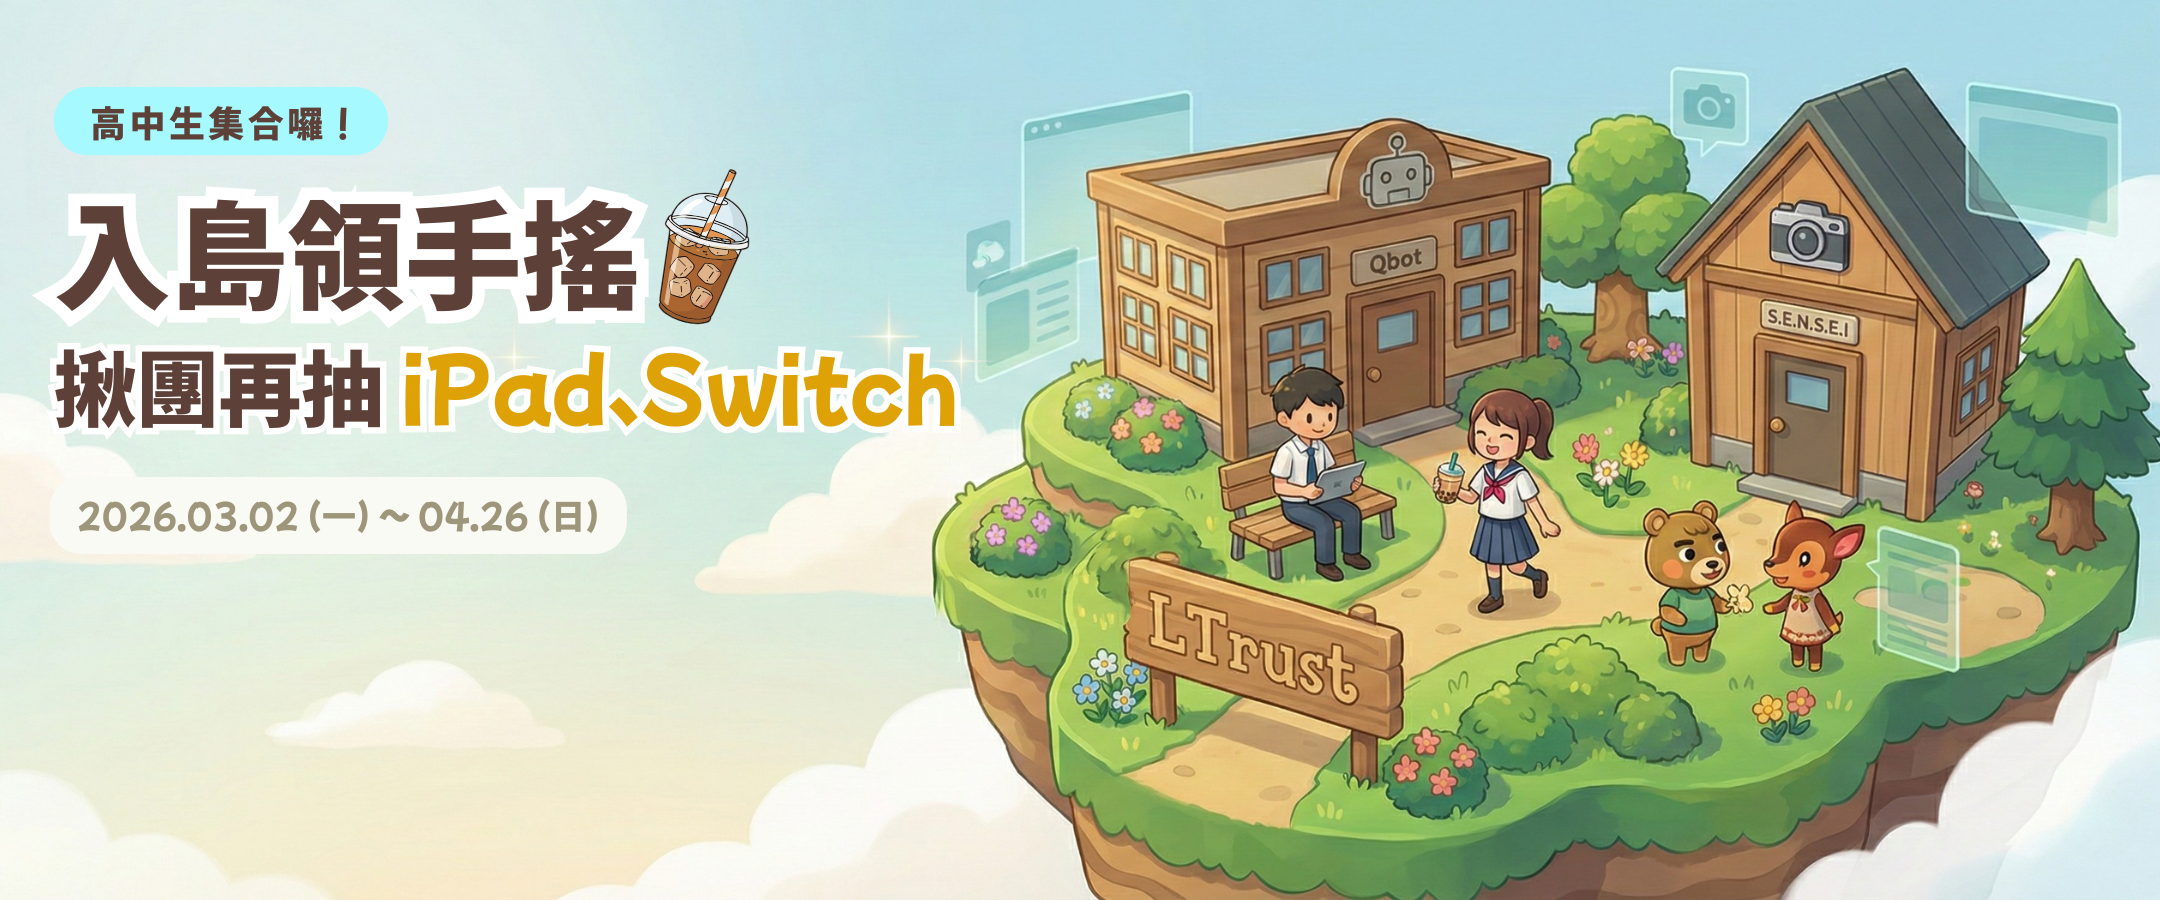
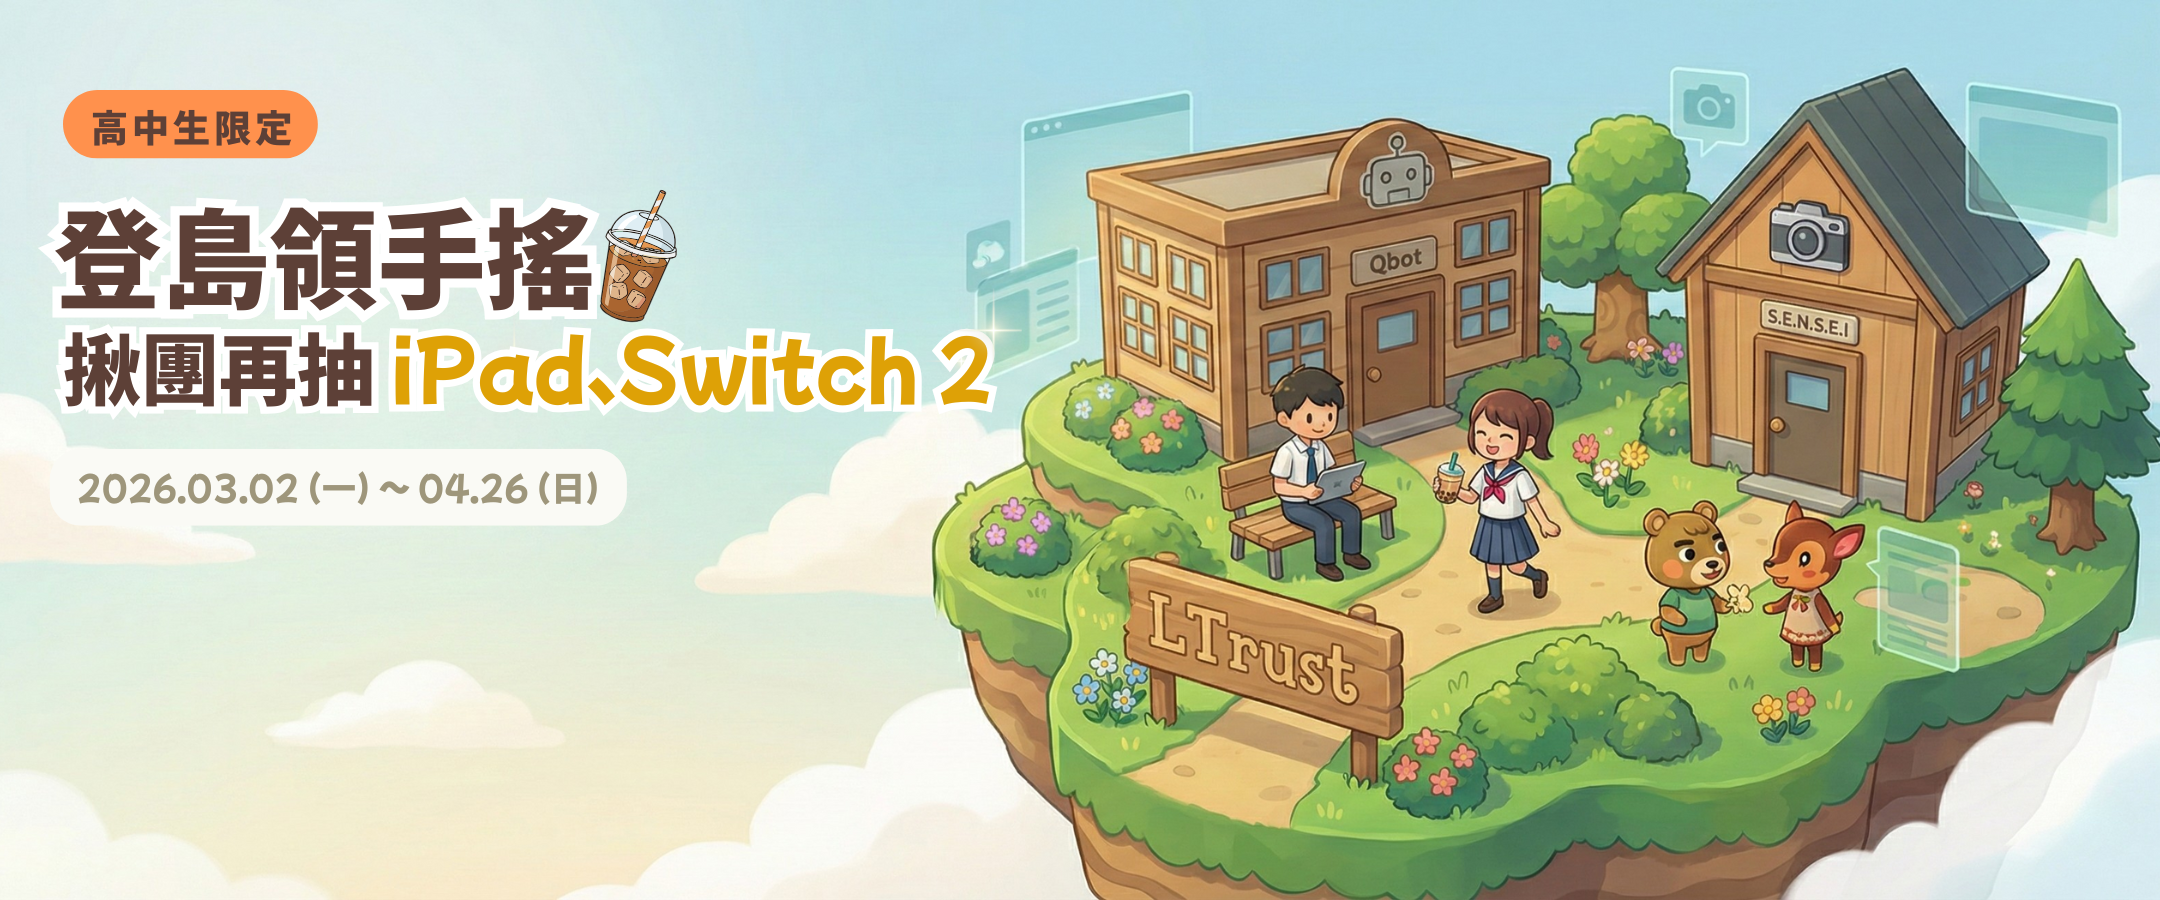
Add files via upload

Changed region(s): [[0.0, 0.0933, 0.4653, 0.6222]]

diff --git a/index.html b/index.html
@@ -3,7 +3,7 @@
 <head>
   <meta charset="UTF-8" />
   <meta name="viewport" content="width=device-width, initial-scale=1.0" />
-  <title>高中限定｜開學小島物資站🧋</title>
+  <title>高中限定｜LTrust入島領手搖🧋揪團抽大獎！</title>
 
   <!-- Tailwind CSS -->
   <script src="https://cdn.tailwindcss.com"></script>
@@ -273,7 +273,7 @@
       hostBonusMax: { people: 30, original: "NT$ 3,500", money: "NT$ 4,000" },
       hostGuideSteps: [
         { id: 1, title: "取得島民（會員）資格", text: " 無論是新舊島民，只要是 LTrust 島民，都有資格成為「團長」，開啟你的揪團計畫！" },
-        { id: 2, title: "前往服務中心領推薦碼", text: "立志成為團長後，請前往 LTrust 本島的「熱門服務區」，領取專屬的 「入島推薦碼」", showImage: true },
+        { id: 2, title: "前往服務中心領推薦碼", text: "立志成為團長後，請前往 LTrust 本島的「熱門服務區」，領取專屬的 「登島推薦碼」", showImage: true },
         { id: 3, title: "發送推薦碼", text: "將邀請碼發給同學，對方輸入並成功註冊，系統將自動把他納入你的團隊！", sub: "● 一個推薦碼限一人使用！若你要揪第 2 位同學，請再次回到熱門服務區，領取一組新的邀請碼。揪 10 人就要領 10 次碼，勤勞的團長有糖吃！", showImage: true },
       ],
       prizePools: [
@@ -322,7 +322,7 @@
 
       tickerNews: [
         "🌸 恭喜「建國中學」陳O明 同學揪團成功，全團獲得抽獎資格！",
-        "🧋 累積入島人數已突破 800 位！剩餘手搖飲額度倒數中...",
+        "🧋 累積登島人數已突破 800 位！剩餘手搖飲額度倒數中...",
         "🎁 5/6 島內佈告欄貼榜，記得回來查看中獎資訊喔！",
         "✈ Nook 旅行券領取步驟：註冊後加入 LINE@ 留言即可獲得。"
       ],
@@ -406,22 +406,56 @@
       );
     };
 
+    // ✅ 重繪圖標：CoCo 奶茶三兄弟 (料堆在上面的澎湃版 + 吸管)
     const CuteBobaIcon = () => (
       <svg viewBox="0 0 100 120" className="w-20 h-20 md:w-28 md:h-28 drop-shadow-xl">
-        <path d="M25 25 L75 25 L68 110 Q65 115 60 115 L40 115 Q35 115 32 110 Z" fill="#ffffff" stroke="#006c64" strokeWidth="3" />
-        <path d="M28 40 L72 40 L68 110 Q65 115 60 115 L40 115 Q35 115 32 110 Z" fill="#f0c9a0" />
-        <rect x="20" y="20" width="60" height="12" rx="6" fill="#ffffff" stroke="#006c64" strokeWidth="3" />
-        <rect x="58" y="5" width="8" height="40" rx="4" fill="#a29bfe" stroke="#006c64" strokeWidth="2.5" />
-        <circle cx="40" cy="100" r="4.5" fill="#594d40" />
-        <circle cx="52" cy="104" r="4.5" fill="#594d40" />
-        <circle cx="62" cy="95" r="4.5" fill="#594d40" />
-        <circle cx="45" cy="85" r="4.5" fill="#594d40" />
-        <circle cx="56" cy="88" r="4.5" fill="#594d40" />
-        <circle cx="40" cy="65" r="2" fill="#594d40" />
-        <circle cx="60" cy="65" r="2" fill="#594d40" />
-        <path d="M45 72 Q50 78 55 72" fill="none" stroke="#594d40" strokeWidth="2" strokeLinecap="round" />
-        <circle cx="35" cy="70" r="4" fill="#ff9999" opacity="0.4" />
-        <circle cx="65" cy="70" r="4" fill="#ff9999" opacity="0.4" />
+        {/* 新增：吸管 (插在後方，被配料遮擋，呈現自然插入感) */}
+        {/* 我們將吸管畫在最底層，這樣它就會位於杯身和配料的「後面」 */}
+        <line x1="85" y1="-10" x2="65" y2="60" stroke="#a29bfe" strokeWidth="8" strokeLinecap="round" />
+        {/* 吸管陰影/細節 */}
+        <line x1="85" y1="-10" x2="65" y2="60" stroke="rgba(0,0,0,0.1)" strokeWidth="1" />
+
+        {/* 1. 配料層 (堆高高在杯口上方) */}
+        <g>
+            {/* 布丁：左上大塊黃色，滑嫩感 */}
+            <path d="M25 35 Q30 15 50 25 L55 35 Z" fill="#f9ca24" />
+            <path d="M30 25 Q40 18 48 28" fill="none" stroke="#ffeaa7" strokeWidth="2" opacity="0.8" />
+
+            {/* 仙草：右上大塊黑色，Q彈感 */}
+            <path d="M50 35 Q70 15 75 35 Z" fill="#2d3436" />
+            <path d="M55 30 Q65 20 70 32" fill="none" stroke="#636e72" strokeWidth="2" opacity="0.5" />
+
+            {/* 珍珠：堆疊在中間與縫隙，營造豐富感 */}
+            <circle cx="40" cy="28" r="5" fill="#2d3436" />
+            <circle cx="50" cy="22" r="5" fill="#2d3436" />
+            <circle cx="60" cy="28" r="5" fill="#2d3436" />
+            <circle cx="45" cy="18" r="5" fill="#2d3436" />
+            <circle cx="55" cy="18" r="5" fill="#2d3436" />
+            
+            {/* 珍珠光澤 (Highlihgt) */}
+            <circle cx="48" cy="20" r="1.5" fill="white" opacity="0.4" />
+            <circle cx="53" cy="16" r="1.5" fill="white" opacity="0.4" />
+        </g>
+
+        {/* 2. 杯身 (奶茶色 + 白色杯緣) */}
+        <path d="M20 35 L80 35 L72 110 Q68 115 60 115 L40 115 Q32 115 28 110 Z" fill="#dcb690" stroke="#fff" strokeWidth="2.5" />
+        
+        {/* 3. 杯底微微透出的沉澱配料 (增加真實感) */}
+        <circle cx="35" cy="95" r="4" fill="#2d3436" opacity="0.1" />
+        <circle cx="65" cy="100" r="4" fill="#2d3436" opacity="0.1" />
+        <path d="M30 85 Q40 95 50 85" stroke="#2d3436" strokeWidth="3" opacity="0.05" fill="none" />
+
+        {/* 4. 療癒微笑表情 (維持在杯身中間) */}
+        <g transform="translate(0, 5)">
+            <circle cx="38" cy="65" r="3.5" fill="#594d40" />
+            <circle cx="62" cy="65" r="3.5" fill="#594d40" />
+            <path d="M45 72 Q50 78 55 72" fill="none" stroke="#594d40" strokeWidth="2.5" strokeLinecap="round" />
+            <circle cx="32" cy="70" r="3" fill="#ff9999" opacity="0.5" />
+            <circle cx="68" cy="70" r="3" fill="#ff9999" opacity="0.5" />
+        </g>
+
+        {/* 5. 杯身反光質感 */}
+        <path d="M28 45 L32 105" fill="none" stroke="white" strokeWidth="3" strokeLinecap="round" opacity="0.3" />
       </svg>
     );
 
@@ -436,7 +470,8 @@
                </div>
             </div>
             <h3 className="text-3xl md:text-4xl font-black tracking-tight mb-2 text-[#006c64] drop-shadow-sm">LTrust 歡迎你</h3>
-            <p className="text-xl font-bold text-orange-700">人氣手搖品牌 電子飲品券</p>
+            {/* ✅ 更新文案：CoCo都可奶茶三兄弟(大) */}
+            <p className="text-lg md:text-xl font-bold text-orange-700">CoCo都可奶茶三兄弟(大) 好禮即享券</p>
           </div>
           <div className="w-[2px] ticket-dashed-line-premium my-6"></div>
           <div className="w-[100px] md:w-[150px] p-2 flex items-center justify-center bg-white/10 flex-shrink-0">
@@ -479,7 +514,7 @@
     const HomePage = () => {
       const [activeTab, setActiveTab] = useState("methods");
       const tabs = [
-        { id: "methods", label: "入島領手搖", iconClass: "fa-solid fa-plane-departure" },
+        { id: "methods", label: "登島領手搖", iconClass: "fa-solid fa-plane-departure" },
         { id: "prizes", label: "揪團福利社", iconClass: "fa-solid fa-crown" },
         { id: "winners", label: "中獎名單", iconClass: "fa-solid fa-trophy" },
         { id: "notices", label: "登島須知", iconClass: "fa-solid fa-circle-exclamation" },
@@ -574,7 +609,18 @@
                         <div className="section-title">限量登島禮 🎁</div>
                          <p className="section-subtitle">限量 1,000 杯，<span className="text-[#006c64]">次週三</span>統一空投至註冊 Email，發畢將在此頁公告</p>
 
-                        <div className="mb-12"><VoucherTicket /></div>
+                        <div className="mb-12">
+                          <VoucherTicket />
+                          {/* ✅ 新增：統一格式的備註區 (綠色虛線框) */}
+                          {/* 使用 bg-[#f0fdf4], border-[#86efac], text-[#15803d] 打造 Unified Format */}
+                          <div className="mt-6 w-full max-w-[480px] mx-auto">
+                            <div className="bg-[#f0fdf4] border-2 border-dashed border-[#86efac] text-[#15803d] rounded-[24px] px-6 py-4 text-left shadow-sm flex flex-col gap-1">
+                                <span className="font-bold text-sm md:text-base">💡 兌換期間：自發行日起算至3個月底</span>
+                                <span className="font-bold text-sm md:text-base">💡 不適用店點：兌換前請務必確認，請依業者現場說明為準</span>
+                            </div>
+                          </div>
+                        </div>
+
                         <div className="text-xl md:text-3xl font-black text-[#594d40] mb-8 bg-[var(--ac-yellow)] inline-block px-6 py-2 rounded-lg transform -rotate-1 border-2 border-[#594d40]">領取3步驟</div>
                         {/* ✅ 平板排版修正：
                             將原本的 md:grid-cols-3 改為 lg:grid-cols-3。
